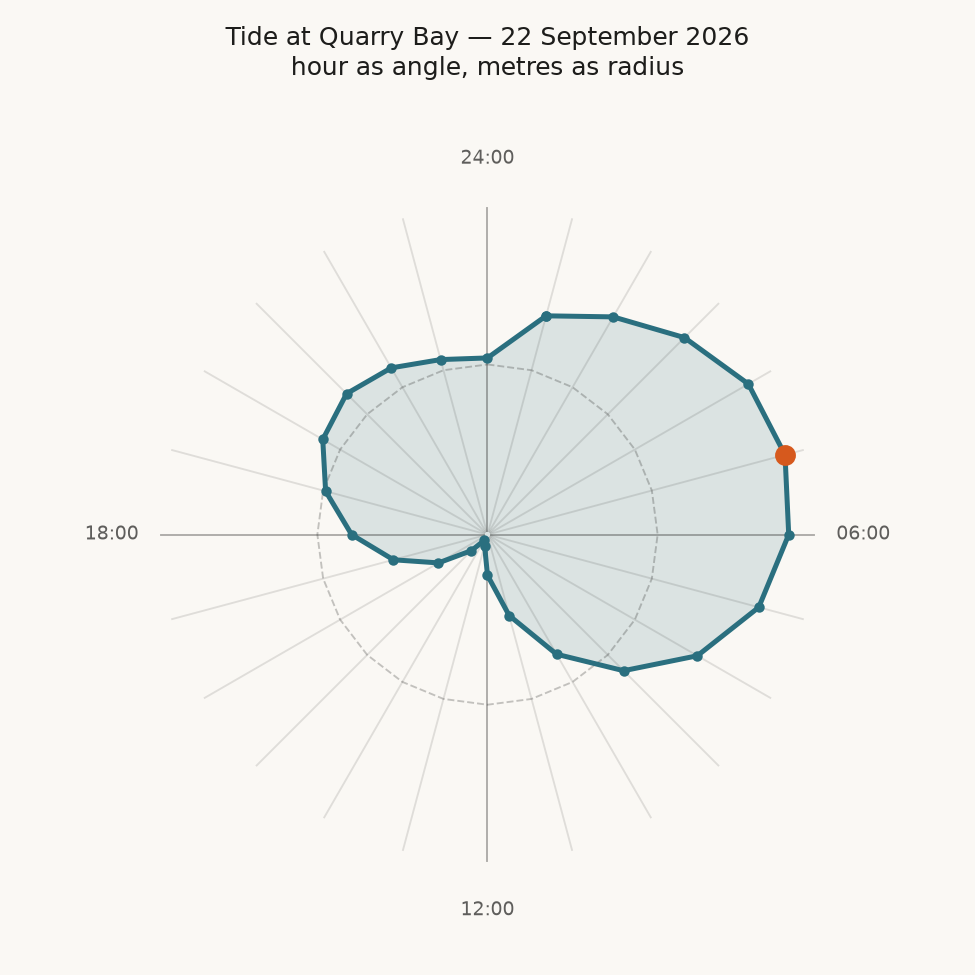
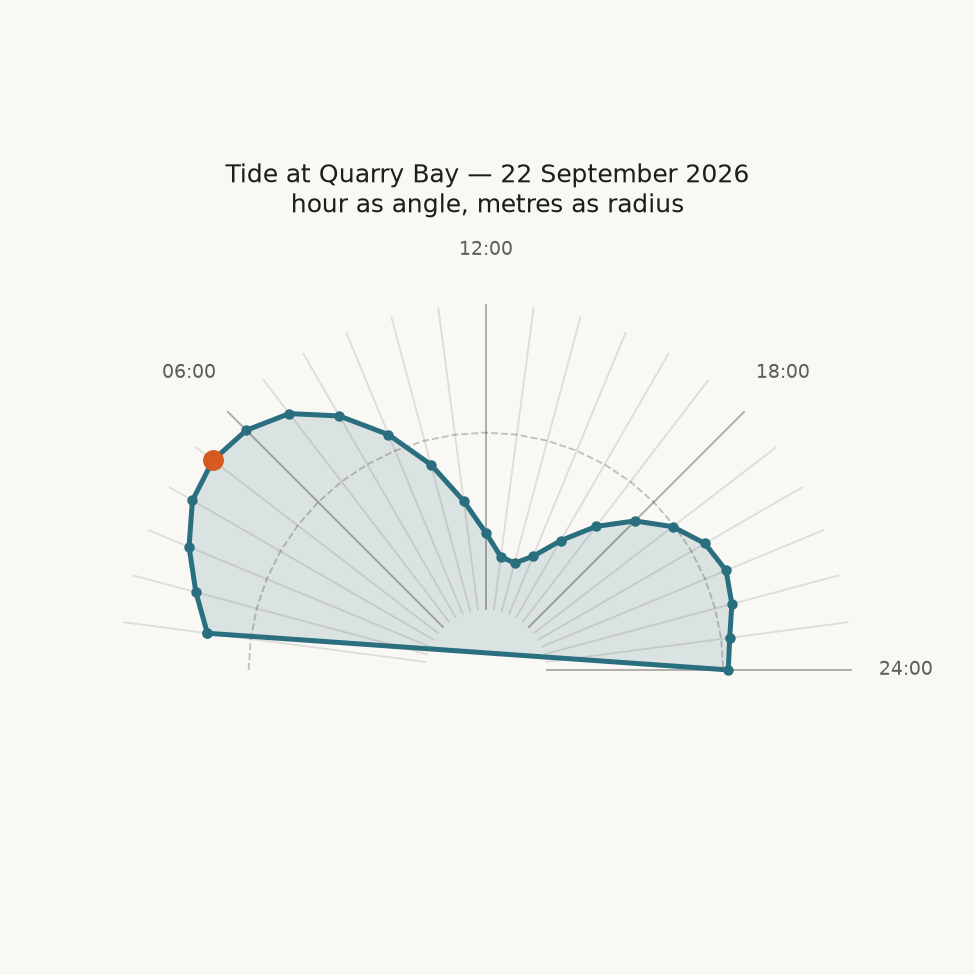
Multiple tries of different data and turning them into different types of visualizations.

diff --git a/week03/tide_clock.py b/week03/tide_clock.py
@@ -35,9 +35,9 @@ from tides import CLASS_DAY, day, has
 
 WHEN = None                # None = today. Or pin one: dt.date(2026, 9, 17)
 HOURS = 24                 # a full turn is one day
-TURN = 360                 # degrees in a full turn. Try 180: half a day per turn.
-ROTATE = 0                 # turn the whole clock, in degrees. Try 90.
-BASELINE = 0.8             # where the centre of the clock sits, in metres. Raise it
+TURN = 180                 # degrees in a full turn. Try 180: half a day per turn.
+ROTATE = 90                 # turn the whole clock, in degrees. Try 90.
+BASELINE = 0.2             # where the centre of the clock sits, in metres. Raise it
                            # towards the low water and the shape exaggerates. This is
                            # why a radial chart can flatter or flatten the same numbers.
 ZOOM = 1.0                 # scale the whole clock

diff --git a/week03/animate.py b/week03/animate.py
@@ -32,7 +32,7 @@ from tides import CLASS_DAY, day, has
 # ---------------------------------------------------------------------------
 
 WHEN = None                # None = today. Or pin one: dt.date(2026, 9, 17)
-FPS = 6                    # frames per second in the GIF. 24 frames, so 4 seconds.
+FPS = 30                    # frames per second in the GIF. 24 frames, so 4 seconds.
 SIZE = 4.5                 # inches square
 DPI = 72                   # 4.5 x 72 = 324 pixels. Raise it and the file grows fast.
 TRAIL = True               # keep the hours already drawn?

diff --git a/week03/tide_month.py b/week03/tide_month.py
@@ -32,7 +32,7 @@ from tides import CLASS_DAY, load_year
 # ---------------------------------------------------------------------------
 
 MONTH = None               # None = this month. Or a number: 1 is January, 9 September.
-COLOURS = "viridis"        # try "Blues", "magma", "coolwarm", "cividis"
+COLOURS = "cividis"        # try "Blues", "magma", "coolwarm", "cividis"
 PAPER = "#faf8f4"
 INK = "#1d1d1b"
 WATER = "#2a6f7f"
